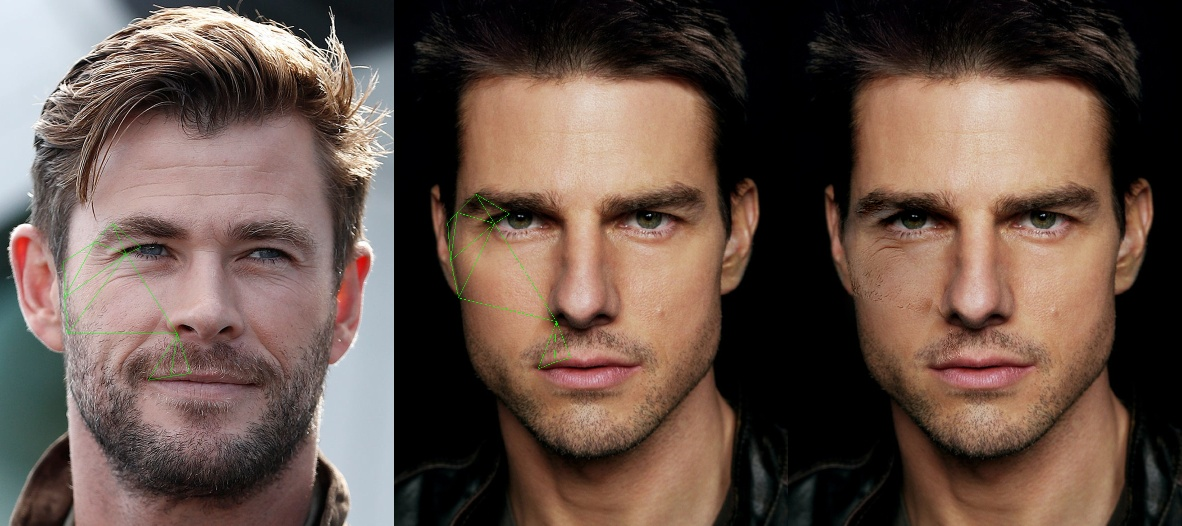
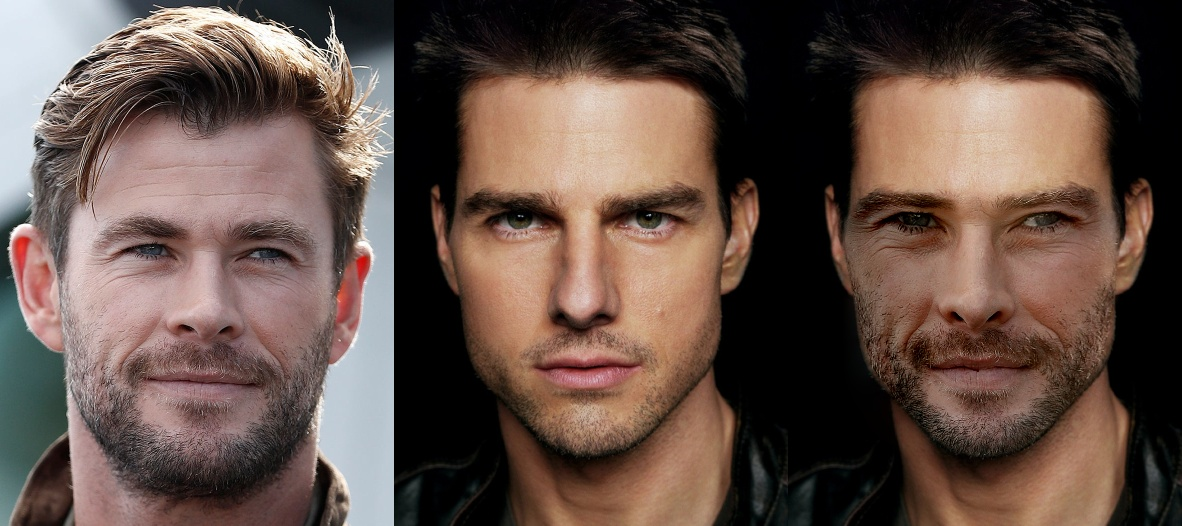
coding cleaning

diff --git a/index.py b/index.py
@@ -1,36 +1,9 @@
-from utils.swap_test import SWAP_T
-
-# img2 = 'images/dadario.jpg'
-# img1 = 'images/emma.jpg'
+from utils.swap import SWAP
 
 img1 = 'images/chris-hems.jpg'
 img2 = 'images/tom-2.jpg'
 
-SWAP_T.enable_visualization()
-swap = SWAP_T(img1, img2)
+swap = SWAP(img1, img2)
 
-SWAP_T.enable_visualization(False)
-swap.first_face_landmarks()
-
-SWAP_T.enable_visualization(False)
-swap.second_face_landmarks()
-
-SWAP_T.enable_visualization(False)
-swap.first_convex_hull()
-
-SWAP_T.enable_visualization(False)
-swap.second_convex_hull()
-
-SWAP_T.enable_visualization(False)
-swap.delaunay_triangle_1()
-
-SWAP_T.enable_visualization(False)
-swap.delaunay_triangle_2()
-
-SWAP_T.enable_visualization(False)
-swap.combine_triangle()
-
-SWAP_T.enable_visualization(False)
-swap.final_show()
-
+swap.swap()
 swap.show_images()
